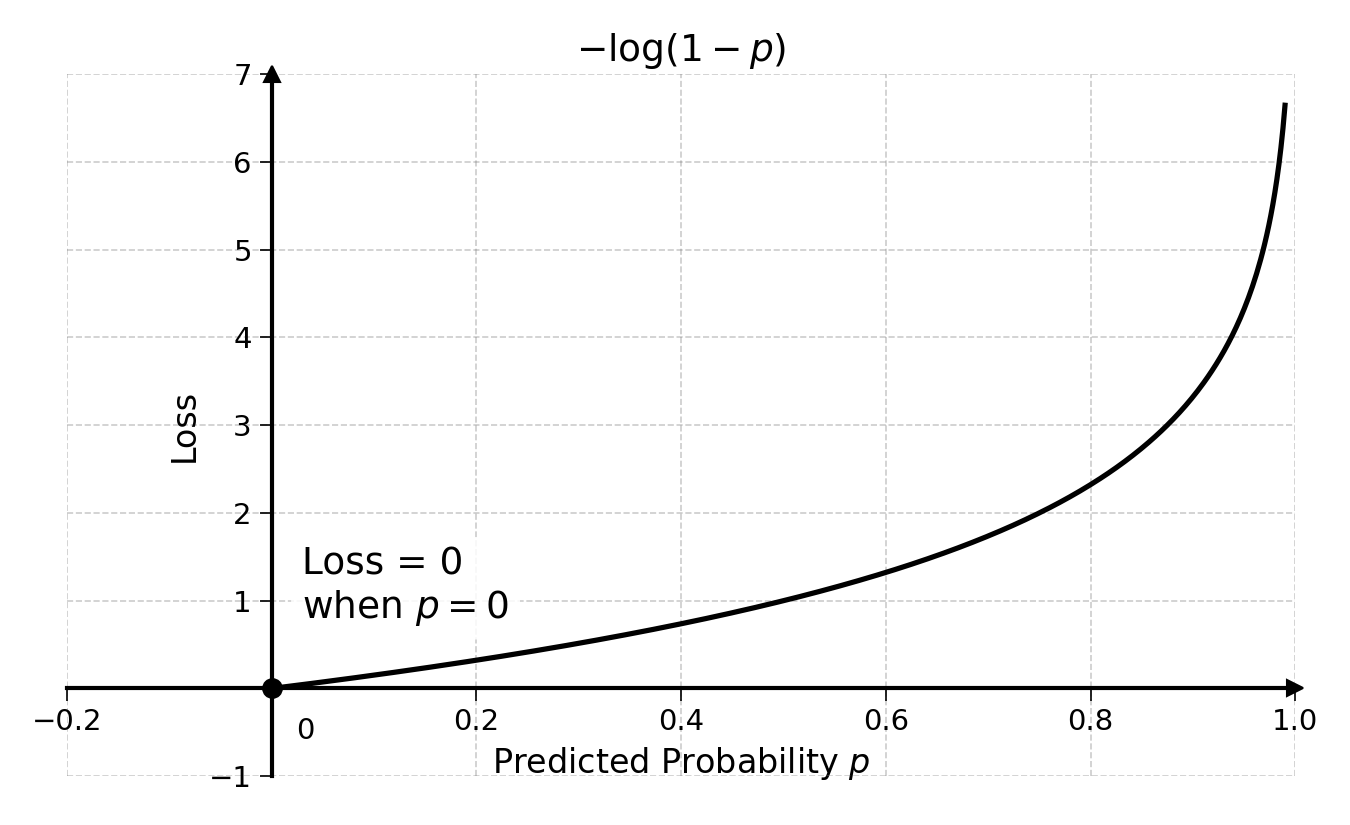
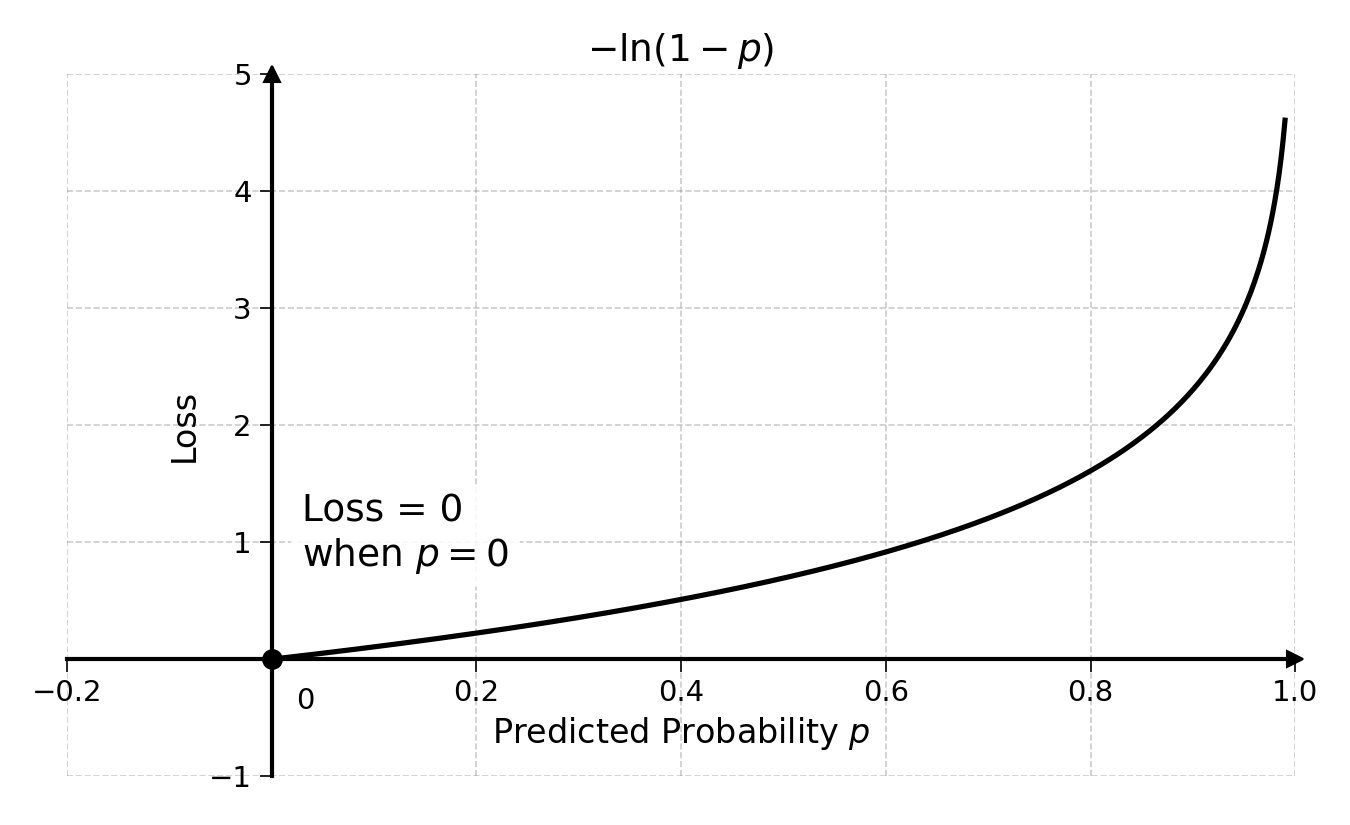
Publish site (2026-08-25)

diff --git a/chapters/calibrating-classification.html b/chapters/calibrating-classification.html
@@ -521,7 +521,7 @@ window.Quarto = {
 
 
 <p>The <a href="../chapters/scoring-classification.html" target="_blank">previous chapter</a> covered scoring metrics like accuracy, precision and recall. These metrics measure whether the model classifies observations into the right category. But they say little about the quality of the predicted probabilities. They also depend on the choice of threshold, which makes comparison difficult.</p>
-<p>The most widely used calibration metric for binary classification is binary cross-entropy. This is a tricky formula to master, as it is based on information theory <span class="citation" data-cites="shannon1948communication">(<a href="../references.html#ref-shannon1948communication" role="doc-biblioref">Shannon 1948</a>)</span>. It also uses logarithms, a concept that has not been covered yet.</p>
+<p>The most widely used calibration metric for binary classification is binary cross-entropy. This is a tricky formula to master, as it is based on information theory <span class="citation" data-cites="shannon1948communication">(<a href="../references.html#ref-shannon1948communication" role="doc-biblioref">Shannon 1948</a>)</span>. It uses logarithms, a concept that has not been covered yet.</p>
 <section id="logarithms" class="level2" data-number="26.1">
 <h2 data-number="26.1" class="anchored" data-anchor-id="logarithms"><span class="header-section-number">26.1</span> Logarithms</h2>
 <p>The logarithm, noted “log”, is the inverse operation of exponentiation. It is very important for machine learning. You may remember from the <a href="../chapters/log-reg-formula.html" target="_blank">logistic regression chapter</a> that exponentiation looks like:</p>
@@ -622,16 +622,36 @@ window.Quarto = {
 </section>
 <section id="cross-entropy" class="level2" data-number="26.2">
 <h2 data-number="26.2" class="anchored" data-anchor-id="cross-entropy"><span class="header-section-number">26.2</span> Cross-Entropy</h2>
-<p>Now that we understand logarithms, we can tackle cross-entropy. The cross-entropy formula has two parts, one for each possible value of the target <span class="math inline">\(y\)</span>.</p>
+<p>Now that we understand logarithms, we can tackle cross-entropy. The cross-entropy formula has two parts, one for each possible value of the target <span class="math inline">\(y\)</span>. Both parts use the natural logarithm <span class="math inline">\(\ln\)</span>.</p>
+<div class="callout callout-style-default callout-note callout-titled">
+<div class="callout-header d-flex align-content-center collapsed" data-bs-toggle="collapse" data-bs-target=".callout-1-contents" aria-controls="callout-1" aria-expanded="false" aria-label="Toggle callout">
+<div class="callout-icon-container">
+<i class="callout-icon"></i>
+</div>
+<div class="callout-title-container flex-fill">
+<span class="screen-reader-only">Note</span>Why the Natural Logarithm?
+</div>
+<div class="callout-btn-toggle d-inline-block border-0 py-1 ps-1 pe-0 float-end"><i class="callout-toggle"></i></div>
+</div>
+<div id="callout-1" class="callout-1-contents callout-collapse collapse">
+<div class="callout-body-container callout-body">
+<p>Cross-entropy comes from information theory, which uses the logarithm base 2, giving a loss measured in bits. Machine Learning uses the natural logarithm because of the rule seen above:</p>
+<p><span class="math display">\[
+\frac{d}{dx} \ln(x) = \frac{1}{x}
+\]</span></p>
+<p>As the loss will be minimised with gradient descent, <span class="math inline">\(\ln\)</span> is often preferred.</p>
+</div>
+</div>
+</div>
 <section id="loss-when-y-1" class="level3" data-number="26.2.1">
 <h3 data-number="26.2.1" class="anchored" data-anchor-id="loss-when-y-1"><span class="header-section-number">26.2.1</span> Loss When y = 1</h3>
 <p>The first part computes the loss when the target <span class="math inline">\(y\)</span> is 1:</p>
 <p><span class="math display">\[
-\text{Loss}_{y=1} = \log\left(\frac{1}{p}\right) = -\log(p)
+\text{Loss}_{y=1} = \ln\left(\frac{1}{p}\right) = -\ln(p)
 \]</span></p>
 <p>As a reminder, this is due to the rule:</p>
 <p><span class="math display">\[
-\log\left(\frac{1}{a}\right) = \log(a^{-1}) = -\log(a)
+\ln\left(\frac{1}{a}\right) = \ln(a^{-1}) = -\ln(a)
 \]</span></p>
 <p>Let’s plot this loss as a function of <span class="math inline">\(p\)</span>:</p>
 <div class="quarto-figure quarto-figure-center">
@@ -646,7 +666,7 @@ window.Quarto = {
 <h3 data-number="26.2.2" class="anchored" data-anchor-id="loss-when-y-0"><span class="header-section-number">26.2.2</span> Loss When y = 0</h3>
 <p>The second part computes the loss when the target <span class="math inline">\(y\)</span> is 0:</p>
 <p><span class="math display">\[
-\text{Loss}_{y=0} = \log\left(\frac{1}{1-p}\right) = \log((1-p)^{-1}) = -\log(1-p)
+\text{Loss}_{y=0} = \ln\left(\frac{1}{1-p}\right) = \ln((1-p)^{-1}) = -\ln(1-p)
 \]</span></p>
 <p>Plotting the loss as a function of <span class="math inline">\(p\)</span>:</p>
 <div class="quarto-figure quarto-figure-center">
@@ -672,24 +692,24 @@ window.Quarto = {
 </div>
 <p>Substituting the loss formulas, where:</p>
 <ul>
-<li><span class="math inline">\(\text{Loss}_{y_i=1} = -\log(p_i)\)</span></li>
-<li><span class="math inline">\(\text{Loss}_{y_i=0} = -\log(1-p_i)\)</span></li>
+<li><span class="math inline">\(\text{Loss}_{y_i=1} = -\ln(p_i)\)</span></li>
+<li><span class="math inline">\(\text{Loss}_{y_i=0} = -\ln(1-p_i)\)</span></li>
 </ul>
 <p>We get the full cross-entropy for a single observation:</p>
 <p><span class="math display">\[
-\text{CE}_i = y_i \cdot \left(-\log(p_i)\right) + (1 - y_i) \cdot \left(-\log(1 - p_i)\right)
+\text{CE}_i = y_i \cdot \left(-\ln(p_i)\right) + (1 - y_i) \cdot \left(-\ln(1 - p_i)\right)
 \]</span></p>
 <p>Factoring the negative sign out, we get:</p>
 <p><span class="math display">\[
-\text{CE}_i = -\left[ y_i \cdot \log(p_i) + (1 - y_i) \cdot \log(1 - p_i) \right]
+\text{CE}_i = -\left[ y_i \cdot \ln(p_i) + (1 - y_i) \cdot \ln(1 - p_i) \right]
 \]</span></p>
 <p>Computing the sum of this for the entire dataset of <span class="math inline">\(n\)</span> observations, we get:</p>
 <p><span class="math display">\[
-\text{CE} = \sum_{i=1}^{n} -\left[ y_i \cdot \log(p_i) + (1 - y_i) \cdot \log(1 - p_i) \right]
+\text{CE} = \sum_{i=1}^{n} -\left[ y_i \cdot \ln(p_i) + (1 - y_i) \cdot \ln(1 - p_i) \right]
 \]</span></p>
 <p>Putting the negative sign outside the sum, we get the total cross-entropy loss:</p>
 <p><span class="math display">\[
-\text{CE} = -\sum_{i=1}^{n} \left[ y_i \cdot \log(p_i) + (1 - y_i) \cdot \log(1 - p_i) \right]
+\text{CE} = -\sum_{i=1}^{n} \left[ y_i \cdot \ln(p_i) + (1 - y_i) \cdot \ln(1 - p_i) \right]
 \]</span></p>
 </section>
 </section>

diff --git a/chapters/fitting-log-reg.html b/chapters/fitting-log-reg.html
@@ -528,12 +528,16 @@ window.Quarto = {
 \text{CE}(\mathbf{w}) = -\frac{1}{n} \sum_{i=1}^{n} \left[ y_i \ln(p_i) + (1 - y_i) \ln(1 - p_i) \right]
 \]</span></p>
 <p>Where <span class="math inline">\(p_i = \sigma(\mathbf{x}_i \mathbf{w})\)</span> is the predicted probability for observation <span class="math inline">\(i\)</span>.</p>
+<p>Just like the mean squared error, this sum can be written in vector notation:</p>
+<p><span class="math display">\[
+\text{CE}(\mathbf{w}) = -\frac{1}{n} \left[ \mathbf{y}^T \ln(\hat{\mathbf{y}}) + (\mathbf{1} - \mathbf{y})^T \ln(\mathbf{1} - \hat{\mathbf{y}}) \right]
+\]</span></p>
+<p>Where <span class="math inline">\(\hat{\mathbf{y}} = \sigma(\mathbf{X}\mathbf{w})\)</span> is the vector of predicted probabilities, <span class="math inline">\(\mathbf{1}\)</span> is a vector of ones, and <span class="math inline">\(\ln\)</span> is applied to each element of the vector. Each dot product sums a term over all <span class="math inline">\(n\)</span> observations, which is exactly what the summation above does.</p>
 <p>Apart from these two differences, the idea of minimising the loss with gradient descent stays the same. The one tricky mathematical part will be to compute the gradient of the cross-entropy loss with regards to the weight vector <span class="math inline">\(\mathbf{w}\)</span>.</p>
-<p>This is the gradient of the cross-entropy loss function:</p>
+<p>The gradient of the cross-entropy loss function is the following:</p>
 <p><span class="math display">\[
 \nabla \text{CE}(\mathbf{w}) = \frac{1}{n} \mathbf{X}^T (\hat{\mathbf{y}} - \mathbf{y})
 \]</span></p>
-<p>Where <span class="math inline">\(\hat{\mathbf{y}} = \sigma(\mathbf{X}\mathbf{w})\)</span> is the vector of predicted probabilities.</p>
 <p>The full derivation can be found in the <a href="../chapters/appendix-ce-gradient.html#appendix-deriving-the-cross-entropy-gradient" target="_blank">appendix</a>. It is trickier than computing the MSE gradient, but still doable with the chain rule. I encourage the adventurous reader to give it a try.</p>
 <p>Does this look familiar? It is remarkably similar to the MSE gradient from the <a href="../chapters/fitting-mult-lin-reg.html" target="_blank">multiple linear regression chapter</a>:</p>
 <p><span class="math display">\[
@@ -697,7 +701,15 @@ window.Quarto = {
 <li>Compute the gradient at each step.</li>
 <li>Update the weights using a learning rate of <span class="math inline">\(0.5\)</span>.</li>
 </ol>
-<p>Hint: <span class="math inline">\(\sigma(-0.073) \approx 0.482\)</span>, <span class="math inline">\(\sigma(0.010) \approx 0.503\)</span>, <span class="math inline">\(\sigma(0.094) \approx 0.523\)</span>, <span class="math inline">\(\sigma(-0.196) \approx 0.451\)</span>, <span class="math inline">\(\sigma(-0.150) \approx 0.462\)</span>, <span class="math inline">\(\sigma(-0.105) \approx 0.474\)</span>.</p>
+<p>Hint:</p>
+<ul>
+<li><span class="math inline">\(\sigma(-0.073) \approx 0.482\)</span></li>
+<li><span class="math inline">\(\sigma(0.010) \approx 0.503\)</span></li>
+<li><span class="math inline">\(\sigma(0.094) \approx 0.523\)</span></li>
+<li><span class="math inline">\(\sigma(-0.196) \approx 0.451\)</span></li>
+<li><span class="math inline">\(\sigma(-0.150) \approx 0.462\)</span></li>
+<li><span class="math inline">\(\sigma(-0.105) \approx 0.474\)</span></li>
+</ul>
 </div>
 <p>Continuing this process for many more iterations, the algorithm converges to weights that produce an S-shaped curve through the data: low probability for small tumours, high probability for large tumours.</p>
 <div class="quarto-figure quarto-figure-center">

diff --git a/chapters/scoring-classification.html b/chapters/scoring-classification.html
@@ -1195,7 +1195,7 @@ window.Quarto = {
 <figcaption>Visualising recall and precision as the threshold increases</figcaption>
 </figure>
 </div>
-<p>We see that decreasing the prediction threshold to 0.3 has the following effects:</p>
+<p>Lowering the prediction threshold to 0.3 has the following effects:</p>
 <ul>
 <li>Increase in recall: with more observations predicted as “malignant”, recall can only increase or stay constant</li>
 <li>Decrease in precision: with more observations predicted as “malignant”, the risk of misclassifying observations as “malignant” increases</li>
@@ -1230,7 +1230,7 @@ window.Quarto = {
 </section>
 <section id="final-thoughts" class="level2" data-number="25.6">
 <h2 data-number="25.6" class="anchored" data-anchor-id="final-thoughts"><span class="header-section-number">25.6</span> Final Thoughts</h2>
-<p>This chapter has shown how to evaluate the scoring of a binary classification model. There are three steps to this process:</p>
+<p>This chapter has shown how to score a binary classification model. There are three steps to this process:</p>
 <ol type="1">
 <li>Set aside a share of the training data as a test set</li>
 <li>Using the trained model, generate predictions on this test set</li>

diff --git a/chapters/log-reg-formula.html b/chapters/log-reg-formula.html
@@ -688,7 +688,7 @@ f(x) = e^x
 e^x = \lim_{n \to \infty} \left(1 + \frac{x}{n}\right)^n
 \]</span></p>
 <p>This means that <span class="math inline">\(e^x\)</span> is the effective growth rate of a nominal growth rate <span class="math inline">\(x\)</span> applied continuously.</p>
-<p><span class="math inline">\(e^{0.1} = 1.105\)</span> is the effective growth rate of a growth rate of 10% applied continuously; more frequently than each day or even second. <span class="math inline">\(e^1 = e =  2.718\)</span> is the effective growth rate of a growth rate of 100% applied continuously.</p>
+<p><span class="math inline">\(e^{0.1} = 1.105\)</span> is the effective growth rate of a growth rate of 10% applied continuously; more frequently than each day or even second. <span class="math inline">\(e^1 = e = 2.718\)</span> is the effective growth rate of a growth rate of 100% applied continuously.</p>
 <p>This is why <span class="math inline">\(e\)</span> appears so often in mathematics and science: any continuously growing or decaying process involves <span class="math inline">\(e\)</span>.</p>
 </section>
 </section>

diff --git a/chapters/gradient-desc-multiple.html b/chapters/gradient-desc-multiple.html
@@ -550,7 +550,7 @@ f(x_1, x_2) = x_1^2 + 2x_2^2
 <p><span class="math display">\[
 \nabla f(1.6, 1.2) = (2 \times 1.6, \; 4 \times 1.2) = (3.2, 4.8)
 \]</span></p>
-<p>and update <span class="math inline">\(\mathbf(x)\)</span>:</p>
+<p>and update <span class="math inline">\(\mathbf{x}\)</span>:</p>
 <p><span class="math display">\[
 \mathbf{x}_2 = (1.6, 1.2) - 0.1 \times (3.2, 4.8) = (1.6 - 0.3, \; 1.2 - 0.5) = (1.3, 0.7)
 \]</span></p>
@@ -558,7 +558,7 @@ f(x_1, x_2) = x_1^2 + 2x_2^2
 <p><span class="math display">\[
 \nabla f(1.3, 0.7) = (2 \times 1.3, \; 4 \times 0.7) = (2.6, 2.8)
 \]</span></p>
-<p>and update <span class="math inline">\(\mathbf(x)\)</span>:</p>
+<p>and update <span class="math inline">\(\mathbf{x}\)</span>:</p>
 <p><span class="math display">\[
 \mathbf{x}_3 = (1.3, 0.7) - 0.1 \times (2.6, 2.8) = (1.3 - 0.3, \; 0.7 - 0.3) = (1.0, 0.4)
 \]</span></p>

diff --git a/chapters/acknowledgements.html b/chapters/acknowledgements.html
@@ -453,7 +453,7 @@ ul.task-list li input[type="checkbox"] {
 </header>
 
 
-<p>This book would not have been possible without the researchers and professors who dedicated their lives to making the concepts of these books accessible to most.</p>
+<p>This book would not have been possible without the researchers and professors who dedicated their lives to making the concepts of this book accessible to most.</p>
 <p>I aspire to continue their work, sharing what I struggled to learn. This is the book I wish I could have found a few years ago.</p>
 <p>I would like to thank my partner, my two families and my friends for their love and support.</p>
 <p>Last but not least, thank you dear reader, for engaging with the ideas of this book. This is an invitation to look into the past and the future; into what we know, what we don’t, and everything between.</p>

diff --git a/intro.html b/intro.html
@@ -476,7 +476,7 @@ ul.task-list li input[type="checkbox"] {
 </figure>
 </div>
 <p>Here, each point represents a day. Its x-axis coordinate represents the hours of sunlight, and its y-axis coordinate the energy produced on that day.</p>
-<p>As an example, on 6th of June 2025 (see annotation), there were around 3.5 hours of direct sunlight, producing an energy of approximately 1.1 kilowatt hours.</p>
+<p>As an example, on the 6th of June 2025 (see annotation), there were around 3.5 hours of direct sunlight, producing an energy of approximately 1.1 kilowatt hours.</p>
 <p>Taking a ruler, you could draw a line through the points. This line could be a good prediction for other future dates.</p>
 <div class="quarto-figure quarto-figure-center">
 <figure class="figure">

diff --git a/chapters/appendix-ce-gradient.html b/chapters/appendix-ce-gradient.html
@@ -485,7 +485,7 @@ window.Quarto = {
 <p>This appendix derives the gradient of the cross-entropy loss with respect to the weight vector <span class="math inline">\(\mathbf{w}\)</span>. It complements the <a href="../chapters/fitting-log-reg.html" target="_blank">fitting a logistic regression chapter</a>.</p>
 <p>As a reminder, the cross-entropy loss for a single observation <span class="math inline">\(i\)</span> is defined as:</p>
 <p><span class="math display">\[
-\text{CE}_i = -\left[ y_i \cdot \log(p_i) + (1 - y_i) \cdot \log(1 - p_i) \right]
+\text{CE}_i = -\left[ y_i \cdot \ln(p_i) + (1 - y_i) \cdot \ln(1 - p_i) \right]
 \]</span></p>
 <p>and for a dataset of <span class="math inline">\(n\)</span> observations:</p>
 <p><span class="math display">\[

diff --git a/index.html b/index.html
@@ -496,7 +496,7 @@ ul.task-list li input[type="checkbox"] {
 </section>
 <section id="how-to-read-this-book" class="level2">
 <h2 class="anchored" data-anchor-id="how-to-read-this-book">How to read this book?</h2>
-<p>It written as a story with chapters building on top of one another. The maths covered should be relatively self-contained. If the beginning feels a bit too easy, feel free to skip ahead.</p>
+<p>It is written as a story with chapters building on top of one another. The maths covered should be relatively self-contained. If the beginning feels a bit too easy, feel free to skip ahead.</p>
 </section>
 <section id="about-me" class="level2">
 <h2 class="anchored" data-anchor-id="about-me">About Me</h2>

diff --git a/chapters/gradient-vector.html b/chapters/gradient-vector.html
@@ -521,7 +521,7 @@ f(x_1, x_2) = x_1^2 + x_2
 <div class="quarto-figure quarto-figure-center">
 <figure class="figure">
 <p><img src="../images/gradient-vector/contour_f.png" class="img-fluid figure-img"></p>
-<figcaption>Shade plot of <span class="math inline">\(f(x1, x2) = x1^2 + x2\)</span></figcaption>
+<figcaption>Shaded plot of <span class="math inline">\(f(x1, x2) = x1^2 + x2\)</span></figcaption>
 </figure>
 </div>
 <p>Unlike the function <span class="math inline">\(g(x)\)</span>, in which the input could only move left or right along the number line:</p>
